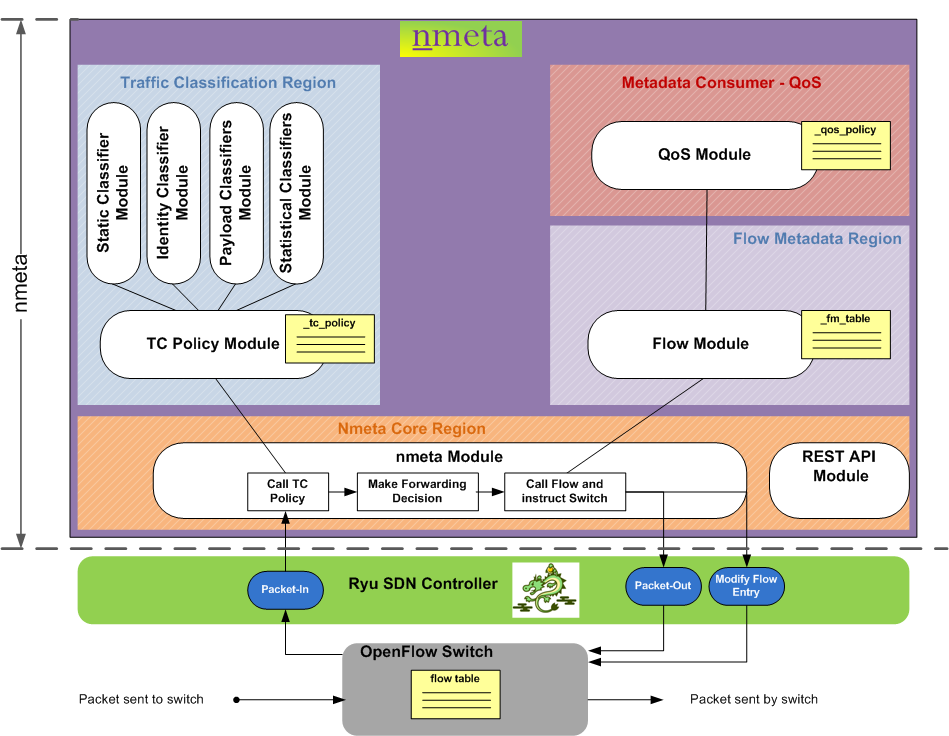
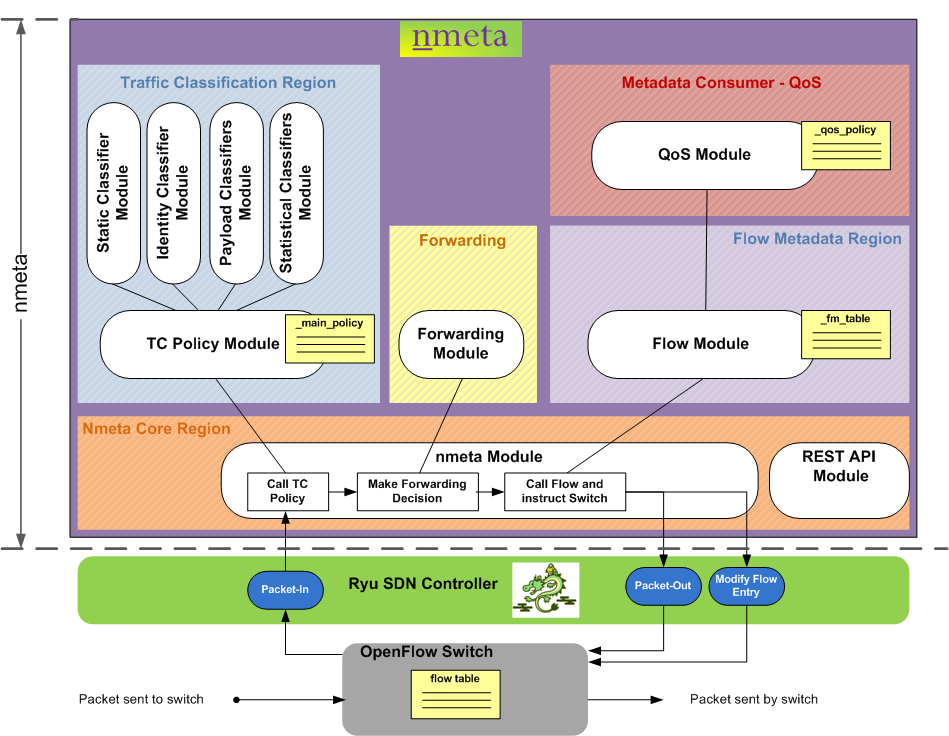
Website Updates
Various updates to documentation including how to do releases on GitHub
and how identity metadata structures are designed

Changed region(s): [[0.3056, 0.2812, 0.5806, 0.625], [0.0917, 0.5625, 0.275, 0.7188], [0.764, 0.5938, 0.8251, 0.7188]]

diff --git a/design.html b/design.html
@@ -49,8 +49,25 @@
   <a id="nmeta---network-metadata" class="anchor" href="#nmeta---network-metadata" aria-hidden="true"><span class="octicon octicon-link"></span></a>
   Architecture and Design
 </h1>
+<h3>
+  <a id="contents" class="anchor" href="#contents" aria-hidden="true"><span class="octicon octicon-link"></span></a>
+  Contents:
+</h3>
+<p>
+  <a href="#overview">Overview</a>
+  <br>
+  <a href="#identity-metadata-structure">Identity Metadata Structure</a>
+<h2>
+  <a id="overview" class="anchor" href="#overview" aria-hidden="true"><span class="octicon octicon-link"></span></a>
+  Overview
+</h2>
+<p>
+  Nmeta is an application that sits atop the Ryu SDN controller.
+<p>
 <p>Here's an overview of how nmeta processes packets:</p>
-<p><img src="images/system/nmeta_logical_1.png" alt="System Overview 1"></p>
+<p>
+  <img src="images/system/nmeta_logical_1.png" alt="System Overview 1">
+</p>
 
 <p>Here are the (simplified) steps for processing a packet that does not have switch flow table entries:</p>
 <ol>
@@ -58,16 +75,58 @@
   <li>The Ryu SDN controller receives the packet-in event and calls the nmeta module</li>
   <li>The nmeta module calls the tc_policy module which runs the packet past a policy to determine if there are any actions</li>
   <li>The tc_policy module sends the packet back to the nmeta module with any actions</li>
+  <li>The nmeta module calls the forwarding module to make a forwarding decision</li>
   <li>The nmeta module sends the packet and any actions to the flow module</li>
   <li>The flow module both stores flow metadata acts as an interface to consumers of the data. It provides information back to the nmeta module about any special treatment for the packet</li>
   <li>The nmeta module sends (via Ryu) instructions to the switch on sending the packet out and installing a flow table entry (in some cases)</li>
   <li>The switch sends the packet out, and installs a flow table entry (if instructed to)</li>
 </ol>
-
 <p>And a more detailed view:</p>
 <p><a href="design-image-logical.html" target="_blank"><img src="images/system/nmeta_logical_2.png" alt="System Overview 2"></a></p>
 <em>(Click to Enlarge)</em>
-<p>*** Under Construction!!! ***</p>
+<p>
+  Points to note in the above diagram:
+  <ul>
+    <li>
+      Maintenance of data structures that hold dynamic state is triggered from the nmeta.py module. This is too prevent them from becoming too large over time as data accumulates.
+    </li>
+    <li>
+      The switch_abstraction.py module in the nmeta Core region provides an abstraction layer from specific switch implementation details
+    </li>
+    <li>
+      The api.py module in the nmeta Core region provides a RESTful API interface
+    </li>
+  </ul>
+</p>
+
+<h2>
+  <a id="identity-metadata-structure" class="anchor" href="#identity-metadata-structure" aria-hidden="true"><span class="octicon octicon-link"></span></a>
+  Identity Metadata Structure
+</h2>
+<p>
+  Identity metadata can be used in traffic classification of flows, and also other purposes such as general visibility of network participants.
+</p>
+<p>
+  Principles:
+  <ul>
+    <li>Optimise data structures for fast lookup, to maximise traffic classification efficiency (when rules reference identity metadata)
+    <li>The consumer of the identity metadata is responsible for the trustworthiness and validity of the data
+    <li>Identity metadata records provide attribution of data source and expiry time so that consumer can make informed decisions (i.e. LLDP metadata may not be very trustworthy as it is a clear text protocol with no authentication, however 802.1x is more trustworthy)
+  </ul>
+  Current sources of identity metadata:
+  <ul>
+    <li>LLDP advertisements
+    <li>DHCP offers / ACKs
+    <li>DNS answers
+    <li>Packet-in events (IP address etc)
+  </ul>
+</p>
+<p>
+  Identity metadata is stored in a set of nested data structures (note that both the structure and diagram are currently under development):
+</p>
+<p>
+  <img src="images/system/identity_metadata_structure.png" alt="Identity Metadata Structures">
+</p>
 
       </section>
     </div>

diff --git a/develop.html b/develop.html
@@ -65,7 +65,7 @@
   <br>
   <a href="#Testing">Learning to Love Automated Testing</a>
   <br>
-  <a href="#merge-to-master-branch">Merging to master Branch</a>
+  <a href="#merge-to-master-branch">Merging to Master Branch</a>
   <br>
   <a href="#Updating-the-Website">Updating the Website</a>
   <br>
@@ -295,7 +295,7 @@
 
 <h2>
   <a id="merge-to-master-branch" class="anchor" href="#merge-to-master-branch" aria-hidden="true"><span class="octicon octicon-link"></span></a>
-  Merging to master branch
+  Merging to Master Branch
 </h2>
 <p>
   Here's a few checks to do before merging code updates to the <em>master</em> branch:
@@ -320,6 +320,9 @@
     Are all logging levels in config.yaml set to 'INFO'?
   </li>
 </ul>
+<p>
+  After merging, create a <a href="https://help.github.com/articles/creating-releases/" target="_blank">Github Release</a>, remembering to follow guidelines of <a href="http://semver.org/" target="_blank">semantic versioning</a>.
+</p>
 
 <h2>
   <a id="Updating-the-Website" class="anchor" href="#Updating-the-Website" aria-hidden="true"><span class="octicon octicon-link"></span></a>
